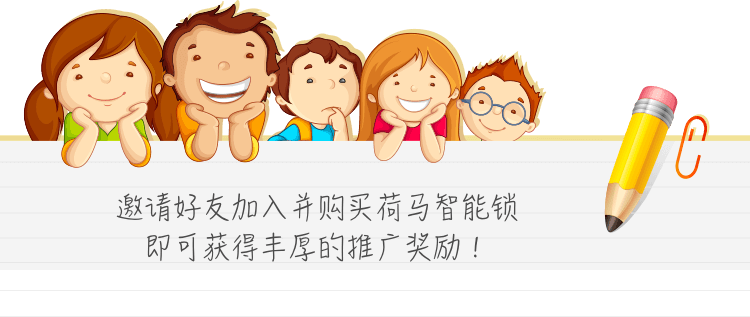
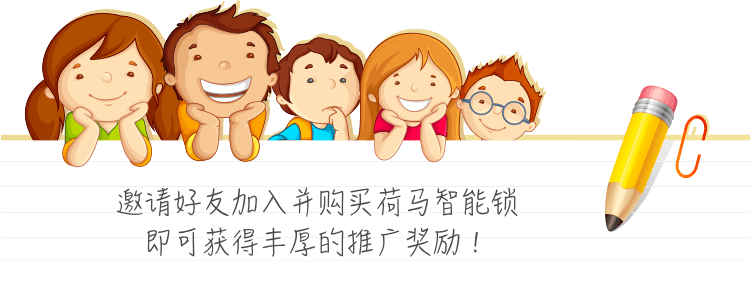
layout modified and add qrcode generate

Changed region(s): [[0.0, 0.0, 1.0, 0.8084], [0.1533, 0.6132, 0.7053, 0.892]]

diff --git a/activity_spread/build/qrcode.min.js b/activity_spread/build/qrcode.min.js
@@ -1,0 +1,1 @@
[1 lines of base64/hex data omitted]

diff --git a/activity_spread/src/scripts/qrcode.min.js b/activity_spread/src/scripts/qrcode.min.js
@@ -1,0 +1,1 @@
[1 lines of base64/hex data omitted]

diff --git a/activity_spread/src/react/pages/index/associated.jsx b/activity_spread/src/react/pages/index/associated.jsx
@@ -9,7 +9,7 @@ class Associated extends React.Component {
 
     logout = () => {
         $.ajax({
-            url: '/api/seller/logout',
+            url: (window.contextPath || '') + '/api/seller/logout',
             type: 'post',
             dataType: 'json'
         })
@@ -33,23 +33,20 @@ class Associated extends React.Component {
         let {isManager, isZB, promotion_code} = {...this.props.User};
         let dom_isManager_isZB = (
             <ul>
-                <li><Link to="/list?search=list"><span className="item-name">人员</span><span className="quantity-people">{this.props.User.seller_count}<i className="sprite sprite-icon_arrow_right"></i></span></Link></li>
+                <li><Link to="/list?search=list"><span className="item-name">人员</span><span className="quantity-people">{this.props.User.seller_count}人<i className="sprite sprite-icon_arrow_right"></i></span></Link></li>
                 <li><Link to="/add-saler"><span className="item-name">添加业务员</span><span className="quantity-lock"><i className="sprite sprite-icon_arrow_right"></i></span></Link></li>
-                <li><Link to="" onClick={this.logout}><span className="item-name">退出</span><span><i className="sprite sprite-icon_arrow_right"></i></span></Link></li>
             </ul>
         );
         let dom_isManager_notZB = (
             <ul>
-                <li><Link to="/list?search=list"><span className="item-name">人员</span><span className="quantity-people">{this.props.User.seller_count}<i className="sprite sprite-icon_arrow_right"></i></span></Link></li>
-                <li><Link to="" onClick={this.logout}><span className="item-name">退出</span><span><i className="sprite sprite-icon_arrow_right"></i></span></Link></li>
+                <li><Link to="/list?search=list"><span className="item-name">人员</span><span className="quantity-people">{this.props.User.seller_count}人<i className="sprite sprite-icon_arrow_right"></i></span></Link></li>
             </ul>
         );
         let dom_notManager_notZB = (
             <ul>
-                <li><Link to="/list?search=invitee"><span className="item-name">已邀请</span><span className="quantity-peopl">{this.props.User.invite_count}<i className="sprite sprite-icon_arrow_right"></i></span></Link></li>
-                <li><Link to="/list?search=orders"><span className="item-name">已卖出锁</span><span className="quantity-lock">{this.props.User.order_count}<i className="sprite sprite-icon_arrow_right"></i></span></Link></li>
+                <li><Link to="/list?search=invitee"><span className="item-name">已邀请</span><span className="quantity-peopl">{this.props.User.invite_count}人<i className="sprite sprite-icon_arrow_right"></i></span></Link></li>
+                <li><Link to="/list?search=orders"><span className="item-name">已卖出锁</span><span className="quantity-lock">{this.props.User.order_count}把<i className="sprite sprite-icon_arrow_right"></i></span></Link></li>
                 <li><Link to="/add-order"><span className="item-name">添加订单</span><span className="quantity-lock"><i className="sprite sprite-icon_arrow_right"></i></span></Link></li>
-                <li><Link to="" onClick={this.logout}><span className="item-name">退出</span><span><i className="sprite sprite-icon_arrow_right"></i></span></Link></li>
             </ul>
           );
         return (
@@ -59,13 +56,21 @@ class Associated extends React.Component {
                     <p className="invite-code">{promotion_code}</p>
                 </div>
                 <div className="share-w">
-                    <i id="wx_friends" className="sprite icon-share sprite-icon_friends"></i>
+                    {/*<i id="wx_friends" className="sprite icon-share sprite-icon_friends"></i>
                     <i id="wx_wx" className="sprite icon-share sprite-icon_wx"></i>
                     <i id="wx_qq" className="sprite icon-share sprite-icon_qq"></i>
-                    <i id="wx_qzone" className="sprite icon-share sprite-icon_qzone"></i>
+                    <i id="wx_qzone" className="sprite icon-share sprite-icon_qzone"></i>*/}
+                    <p className="tips" id="invite-tips">
+                        让被邀请的人扫描二维码，微信可点击右上角进行分享
+                    </p>
+                    <div className="qrcode-w">
+                        <div id="qrcode"></div>
+                    </div>
+                    <div id="qr-mask" className="mask"></div>
                 </div>
                 <div className="menu-items">
                     {(isManager && isZB) ? dom_isManager_isZB : (isManager && !isZB) ? dom_isManager_notZB : dom_notManager_notZB}
+                    <button type="button" onClick={this.logout} className="btn btn-red btn-logout">退 出</button>
                 </div>
             </div>
         );

diff --git a/activity_spread/build/index.html b/activity_spread/build/index.html
@@ -14,7 +14,7 @@
 	<div id="app"></div>
 	<input type="hidden" id="isManager" name="isManager" value="0" />
 	<input type="hidden" id="isZB" name="isZB" value="1" />
-	<input type="hidden" id="promotion_code" name="promotion_code" value="qweqwe" />
+	<input type="hidden" id="promotion_code" name="promotion_code" value="00010000" />
 	<input type="hidden" name="invite_count" value=12 />
     <input type="hidden" name="order_count" value=11 />
     <input type="hidden" name="seller_count" value=13 />
@@ -22,10 +22,26 @@
 <script>
 	!function(a,b){function c(){var b=f.getBoundingClientRect().width;b/i>540&&(b=540*i);var c=b/10;f.style.fontSize=c+"px",k.rem=a.rem=c}var d,e=a.document,f=e.documentElement,g=e.querySelector('meta[name="viewport"]'),h=e.querySelector('meta[name="flexible"]'),i=0,j=0,k=b.flexible||(b.flexible={});if(g){console.warn("将根据已有的meta标签来设置缩放比例");var l=g.getAttribute("content").match(/initial\-scale=([\d\.]+)/);l&&(j=parseFloat(l[1]),i=parseInt(1/j))}else if(h){var m=h.getAttribute("content");if(m){var n=m.match(/initial\-dpr=([\d\.]+)/),o=m.match(/maximum\-dpr=([\d\.]+)/);n&&(i=parseFloat(n[1]),j=parseFloat((1/i).toFixed(2))),o&&(i=parseFloat(o[1]),j=parseFloat((1/i).toFixed(2)))}}if(!i&&!j){var p=a.navigator.userAgent,q=(!!p.match(/android/gi),!!p.match(/iphone/gi)),r=q&&!!p.match(/OS 9_3/),s=a.devicePixelRatio;i=q&&!r?s>=3&&(!i||i>=3)?3:s>=2&&(!i||i>=2)?2:1:1,j=1/i}if(f.setAttribute("data-dpr",i),!g)if(g=e.createElement("meta"),g.setAttribute("name","viewport"),g.setAttribute("content","initial-scale="+j+", maximum-scale="+j+", minimum-scale="+j+", user-scalable=no"),f.firstElementChild)f.firstElementChild.appendChild(g);else{var t=e.createElement("div");t.appendChild(g),e.write(t.innerHTML)}a.addEventListener("resize",function(){clearTimeout(d),d=setTimeout(c,300)},!1),a.addEventListener("pageshow",function(a){a.persisted&&(clearTimeout(d),d=setTimeout(c,300))},!1),"complete"===e.readyState?e.body.style.fontSize=12*i+"px":e.addEventListener("DOMContentLoaded",function(){e.body.style.fontSize=12*i+"px"},!1),c(),k.dpr=a.dpr=i,k.refreshRem=c,k.rem2px=function(a){var b=parseFloat(a)*this.rem;return"string"==typeof a&&a.match(/rem$/)&&(b+="px"),b},k.px2rem=function(a){var b=parseFloat(a)/this.rem;return"string"==typeof a&&a.match(/px$/)&&(b+="rem"),b}}(window,window.lib||(window.lib={}));
 </script>
+<script>
+	var contextPath = 'http://10.0.0.163:8000';
+</script>
 <!-- <script src="/jquery.min.js"></script> -->
 <script src="/zepto-custom-deferred.min.js"></script>
+<script src="/qrcode.min.js"></script>
 <!-- <script src="/iscroll-probe.js"></script> -->
 <script src="/js/vendors.js"></script>
 <!-- <script src="/js/lib.js"></script> -->
 <script src="/js/index.js"></script>
+<script>
+	// var qrcode = new QRCode(document.getElementById("qrcode"), 'http://fkaslfj.com');
+	$('body').on('click', '.qrcode-w', function() {
+		if ($(this).hasClass('bigger')) {
+			$(this).removeClass('bigger');
+		} else {
+			$(this).addClass('bigger');
+		}
+    }).on('click', '#qr-mask', function() {
+    	$('.qrcode-w').removeClass('bigger');
+    });
+</script>
 </html>

diff --git a/activity_spread/src/less/style-spread.less b/activity_spread/src/less/style-spread.less
@@ -94,13 +94,17 @@
 		}
 	}
 	&-3 {
+		background: #f4f4f4;
+		.banner-w {
+			padding-bottom: 0.666667rem; //50
+			background: #fff;
+		}
 		.bg-index {
 			display: block;
 			width: 100%;
-			margin-top: 0.4rem; // 30
-			margin-bottom: 0.72rem; // 54
 		}
 		.invite-w {
+			background: #fff;
 			h3 {
 				margin: 0;
 				text-align: center;
@@ -110,33 +114,56 @@
 			}
 			.invite-code {
 				margin: 0;
-				padding-top: 0.266667rem;
-				padding-bottom: 0.973333rem;
+				padding-top: 0.133333rem; // 10
+				padding-bottom: 0.133333rem;
 				text-align: center;
 				color: @primary-red;
 				font-size: 18px;
+				line-height: 1;
 			}
 		}
 		.share-w {
-			display: flex;
-			justify-content: space-around;
-			.icon-share {
-				border-radius: 50%;
-				border: 1px dashed @bg_index;
-				transition: border-color .2s ease;
-				&:active {
-					border: 1px dashed @primary-red;
+			background: #fff;
+			padding-bottom: 0.666667rem;//50
+			.tips {
+				margin: 0;
+				padding-bottom: 0.266667rem;//20
+				text-align: center;
+				color: #808080;
+				font-size: 9px;
+			}
+			.qrcode-w {
+				position: relative;
+				z-index: 4;
+				margin: 0 auto;
+				padding: 0.133333rem; //10
+				width: 2.933333rem;//220
+				height: 2.933333rem;//220
+				border: 1px solid #e7e7e7;
+				background: #fff;
+				-webkit-transition: all .3s ease;
+				transition: all .3s ease;
+				img {
+					width: 100%;
+				}
+
+				&.bigger {
+					-webkit-transform: scale(2.4);
+					transform: scale(2.4);
+					& + .mask {display: block;}
 				}
 			}
 		}
 		.menu-items {
-			@bc: #e7e7e7;
+			@bc: #f2f2f2;
+			@bg: #f4f4f4;
+			padding-top: 0.266667rem;
+			background: @bg;
 			ul {
-				margin-top: 1.733333rem;
+				margin: 0;
 				padding-left: 0.4rem;
 				list-style: none;
-				border-top: 1px solid @bc;
-				border-bottom: 1px solid @bc;
+				background: #fff;
 			}
 			li {
 				border-bottom: 1px solid @bc;
@@ -155,7 +182,6 @@
 				&:active {
 					background: @bc;
 				}
-
 			}
 			i {
 				display: inline-block;
@@ -172,6 +198,12 @@
 					color: #4a4a4a;
 				}
 			}
+		}
+		.btn-logout {
+			display: block;
+			border-radius: 0;
+			width: 8.0rem;
+			margin: 0.666667rem auto;
 		}
 	}
 	&-4 {
@@ -293,6 +325,7 @@
 	.section-page-3 {
 		.invite-w h3 {font-size: 24px;}
 		.invite-code {font-size: 36px;}
+		.share-w .tips {font-size: 18px;}
 		.menu-items span {font-size: 30px;}
 	}
 	.section-page-4 {
@@ -317,6 +350,7 @@
 	.section-page-3 {
 		.invite-w h3{font-size: 36px;}
 		.invite-code {font-size: 54px;}
+		.share-w .tips {font-size: 27px;}
 		.menu-items span {font-size: 45px;}
 	}
 	.section-page-4 {

diff --git a/activity_spread/src/react/pages/saler/order.jsx b/activity_spread/src/react/pages/saler/order.jsx
@@ -6,7 +6,6 @@ class Order extends React.Component {
     }
 
     state = {
-        contextPath: '',
         lock: [],
         goods_id: '',
         name: '',
@@ -30,7 +29,7 @@ class Order extends React.Component {
 
     getGoods = () => {
         $.ajax({
-            url: this.state.contextPath + '/api/seller/goods',
+            url: (window.contextPath || '') + '/api/seller/goods',
             type: 'get',
             dataType: 'json'
         }).done((res) => {
@@ -49,8 +48,7 @@ class Order extends React.Component {
     }
 
     fenpei = (e) => {
-        let _this = this,
-            $btn = $(e.target);
+        let $btn = $(e.target);
         if (!this.state.mobile) {
             alert('请输入对方的手机号');
             return false;
@@ -74,21 +72,21 @@ class Order extends React.Component {
             };
 
         $.ajax({
-            url: this.state.contextPath + '/api/seller/order/add',
+            url: (window.contextPath || '') + '/api/seller/order/add',
             type: 'post',
             dataType: 'json',
             data: params
-        }).done(function(res) {
+        }).done((res) => {
             if (res.code === 0) {
                 alert(res.message || '添加成功');
-                _this.init();
+                this.init();
             } else {
                 alert(res.message);
             }
         }).fail(function(error) {
             console.log(error);
-        }).always(function() {
-            _this.showSubState($btn, '提交中...', '添 加', false);
+        }).always(() => {
+            this.showSubState($btn, '提交中...', '添 加', false);
         });
     }
 

diff --git a/activity_spread/src/react/pages/saler/add.jsx b/activity_spread/src/react/pages/saler/add.jsx
@@ -6,7 +6,6 @@ class Add extends React.Component {
     }
 
     state = {
-        contextPath: '',
         mobile: '',
         name: '',
         verify_code: '',
@@ -39,15 +38,14 @@ class Add extends React.Component {
     }
 
     getCode = (e) => {
-        let $mobile = $('#mobile'),
-            _this = this;
+        let $mobile = $('#mobile');
         if (!$mobile.val()) {
             alert('请输入对方的手机号');
             return false;
         }
         let counter = this.counter($(e.target));
         $.ajax({
-            url: _this.state.contextPath + '/api/seller/register-code',
+            url: (window.contextPath || '') + '/api/seller/register-code',
             type: 'post',
             dataType: 'json',
             data: {mobile: $mobile.val().trim()}
@@ -99,7 +97,7 @@ class Add extends React.Component {
         };
 
         $.ajax({
-            url: this.state.contextPath + '/api/seller/register/crowd-sourcing',
+            url: (window.contextPath || '') + '/api/seller/register/crowd-sourcing',
             type: 'post',
             dataType: 'json',
             data: params

diff --git a/activity_spread/src/react/pages/index/main.jsx b/activity_spread/src/react/pages/index/main.jsx
@@ -18,11 +18,13 @@ class Index extends React.Component {
     }
 
     componentDidMount() {
+        new QRCode(document.getElementById('qrcode'), url);
+
         let isManager = $('#isManager').val() == '1' ? true : false,
             isZB = $('#isZB').val() == '1' ? true : false,
             promotion_code = $('#promotion_code').val();
         $.ajax({
-            url: '/api/seller/profile',
+            url: (window.contextPath || '') + '/api/seller/profile',
             type: 'GET',
             dataType: 'json'
         })
@@ -48,7 +50,9 @@ class Index extends React.Component {
     render() {
         return (
             <div className="section-page section-page-3">
-                <img className="bg-index" src={bg} />
+                <div className="banner-w">
+                    <img className="bg-index" src={bg} />
+                </div>
                 <Associated User={this.state}/>
             </div>
         );

diff --git a/activity_spread/src/react/pages/list/listController.jsx b/activity_spread/src/react/pages/list/listController.jsx
@@ -44,7 +44,7 @@ class ListController extends React.Component {
     getData = (params = {}, cb = () => {}) => {
         let _this = this;
         $.ajax({
-            url: `/api/seller/${this.props.location.query.search}`,
+            url: (window.contextPath || '') + `/api/seller/${this.props.location.query.search}`,
             type: 'get',
             dataType: 'json',
             data: params
